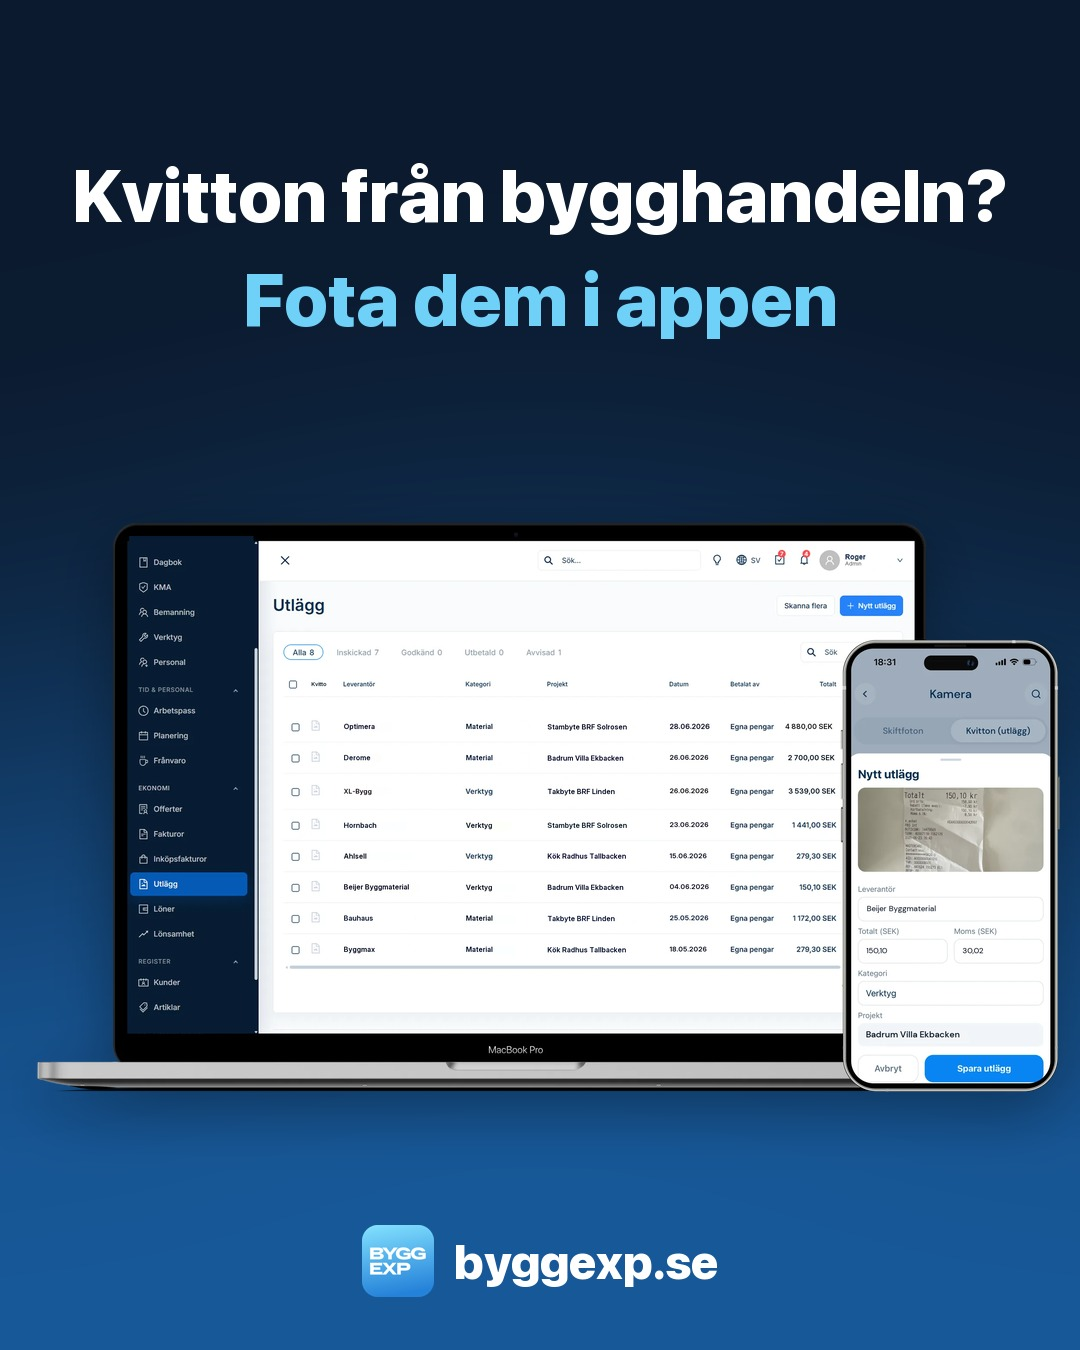
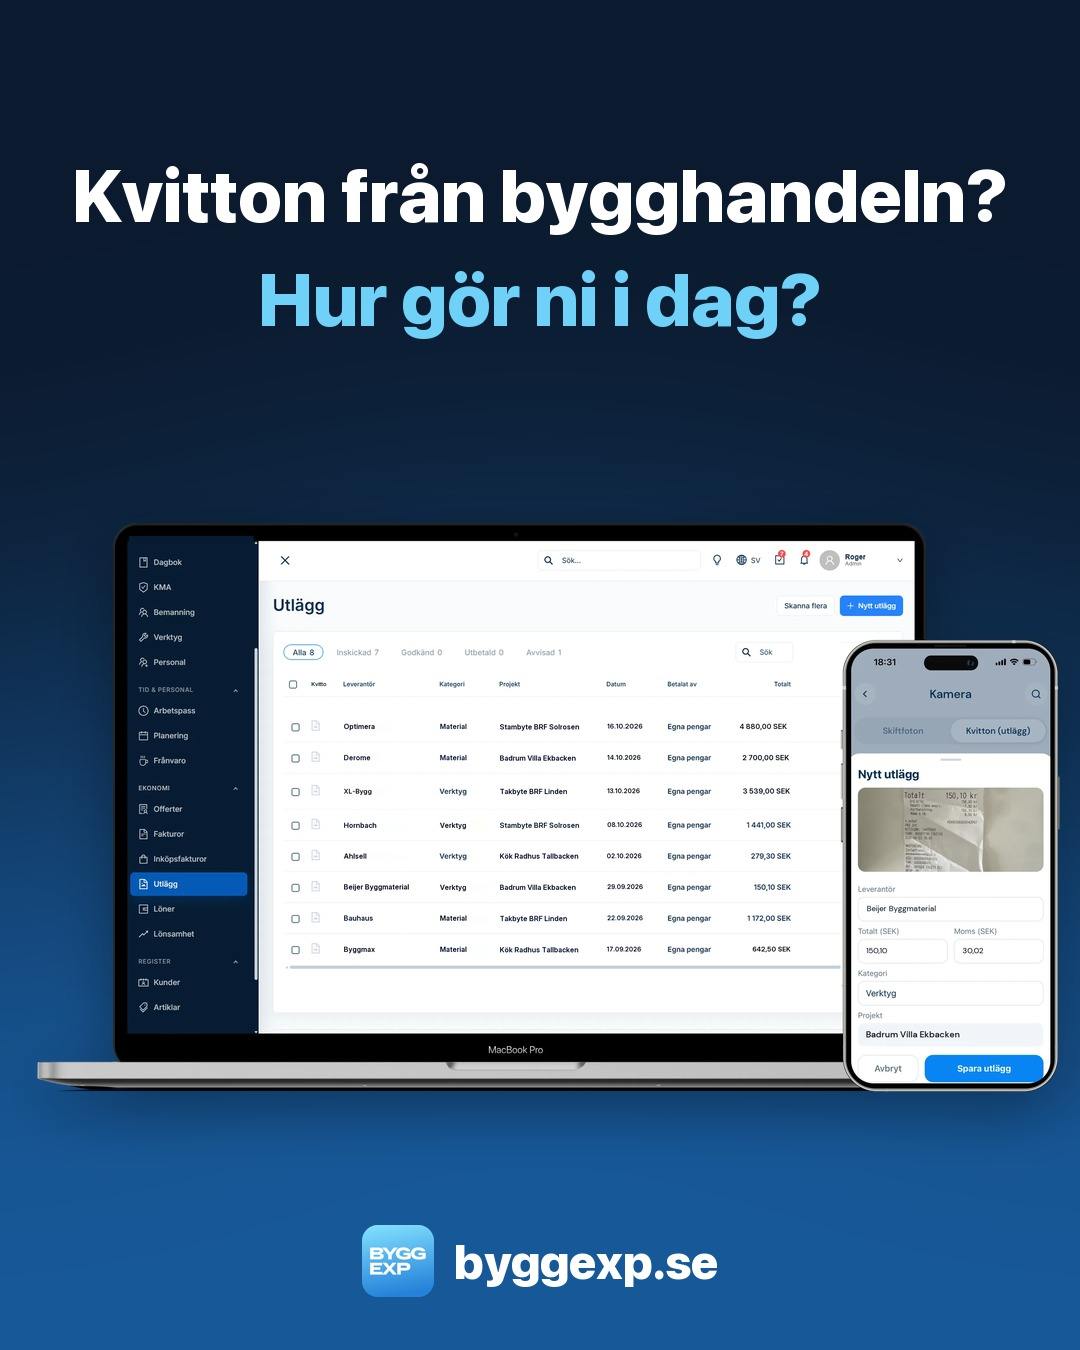
SMM v6: 8 group posts live, fixes for g07-g09

Changed region(s): [[0.3972, 0.5289, 0.7639, 0.7156], [0.2139, 0.1867, 0.7944, 0.2489]]

diff --git a/design-assets/social/posts/v6-grupper/texts.md b/design-assets/social/posts/v6-grupper/texts.md
@@ -82,7 +82,7 @@ Nu vill jag veta vad som är viktigast för er när ni väljer system: priset, a
 Svara gärna med ett ord eller några rader. Jag läser allt.
 
 ## g07 · Hantverkare sökes · kvitton och fakturaskanning (utan länk)
-Bild: v6-grupper/g07.jpg (11costs, rena leverantörer, varierade projekt, hel kolumn Kvitto, utan prispiller och appbutiker – kundgrupp)
+Bild: v6-grupper/g07.jpg (11costs, rubrik Kvitton från bygghandeln? / Hur gör ni i dag?, luft före Totalt, tabell och Sök slutar före mobilen, rena leverantörer, varierade projekt och belopp, kvitton sep–okt 2026, hel kolumn Kvitto och Totalt fri från mobilen, utan prispiller och appbutiker – kundgrupp)
 
 Till er hantverkare som tar uppdrag via gruppen: hur gör ni med kvitton från bygghandeln i dag?
 
@@ -91,7 +91,7 @@ Jag är grundare av ByggExp. Hos oss fotar arbetaren kvittot i appen och väljer
 Jag vill gärna höra hur ni löser det och vad som skulle göra det enklare. Alla svar hjälper oss att bygga rätt.
 
 ## g08 · Bygg och Renovering (13K) · offert och faktura med ROT (utan länk)
-Bild: v6-grupper/g08.jpg (8fakturor, privatkund Anna Svensson, förfallodatum 20 nov. 2026, à-pris, ROT-avdrag påslaget, utan prispiller – privatpersonsgrupp)
+Bild: v6-grupper/g08.jpg (8fakturor, rubrik Faktura med ROT-avdrag? / Vad är viktigast för er?, privatkund Anna Svensson, förfallodatum 20 nov. 2026, rad Arbete badrum 20 tim à 550 = 11 000,00 kr, ROT-avdrag påslaget, utan prispiller – privatpersonsgrupp)
 
 Fråga till er som skickar offerter och fakturor med ROT-avdrag.
 
@@ -100,15 +100,15 @@ Jag bygger ByggExp. Där ingår offerter och fakturor med ROT-avdrag (30 % av ar
 Vad är viktigast för er i en faktura till en privatkund? Jag tar gärna emot tips, stora som små.
 
 ## g09 · Hitta Snickare Stockholm · planering och närvaro, söker testföretag (utan länk)
-Bild: v6-grupper/g09.jpg (5planering, projekt Takbyte BRF Linden i dator och app, hela etiketter, lugn appskärm Anställda, utan prispiller och appbutiker – privatpersonsgrupp)
+Bild: v6-grupper/g09.jpg (5planering okt 2026, rubrik Byggfirma i Stockholm? / Vi söker testföretag, samma fyra personer på Takbyte BRF Linden i dator och app, hela månaden fri från mobilen, lugn appskärm Anställda, utan prispiller och appbutiker – privatpersonsgrupp)
 
 Till er snickare och byggfirmor i Stockholmsområdet:
 
-Jag är grundare av ByggExp och söker några firmor som vill testa systemet gratis och säga ärligt vad de tycker – jag hjälper er personligen att lägga upp allt. Testperioden är 14 dagar.
+Jag är grundare av ByggExp och söker några firmor som vill testa systemet gratis och säga ärligt vad de tycker. Jag hjälper er personligen att lägga upp allt. Testperioden är 14 dagar, utan bindningstid.
 
 Ni får planering per person eller projekt, ser vem som är på vilket bygge just nu och har tidrapport med GPS i appen m.m.
 
-Vill ni vara med? Skriv en kommentar eller skicka ett meddelande. Ingen bindningstid.
+Vill ni vara med? Skriv en kommentar eller skicka ett meddelande.
 
 ## g10 · Jag vill hitta en målare/snickare · vi bygger funktionen som saknas (utan länk)
 Bild: v6-grupper/g10.jpg (foto: händer med appen, svenska knappar, utan prispiller – privatpersonsgrupp)

diff --git a/docs/marketing/smm-status.md b/docs/marketing/smm-status.md
@@ -138,3 +138,6 @@
 Тексты/картинки: design-assets/social/posts/v6-grupper/ (маркетолог → дизайнер → критик ×3 круга).
 Опубликовано: g04 Reklam Är Tillåtet · g03 Marknadsför ditt Företag · g02 Nya företag! (на модерации; окно «согласен с правилами» не принимал — владелец) · g10 Jag vill hitta en målare, snickare · g06 Bygg och Renovering i Stockholm (на модерации) · g01 Jag vill hitta en plattsättare… 
 Правила групп: Driva Eget — свои посты запрещены, только комментарий в маркетинг-треде по понедельникам (g01/g05 туда). Egenföretagare — реклама только в рекламном треде 1 раз в месяц (дата = номер месяца, напр. 11/11). Bygg och renovering 168K и Bygg och Renovering 13K — реклама запрещена.
+- Также опубликованы: g07 Hantverkare sökes · g09 Hitta Snickare, Målare i Stockholm (текст «vad de tycker»; на картинке часы 18:55 — мелочь, критик просил рабочее время). Итого 8/10.
+- Не выложены (по 1 посту в группу в день, иначе спам): g05 (löner) → завтра в Reklam Är Tillåtet или Marknadsför; g08 (ROT) → завтра в Jag vill hitta en målare, snickare / plattsättare. Driva Eget: g01/g05 комментарием в понедельничном треде.
+- NÄSTA утром: ответить на комментарии в 8 постах; владелец — галочка правил в Nya företag!.
